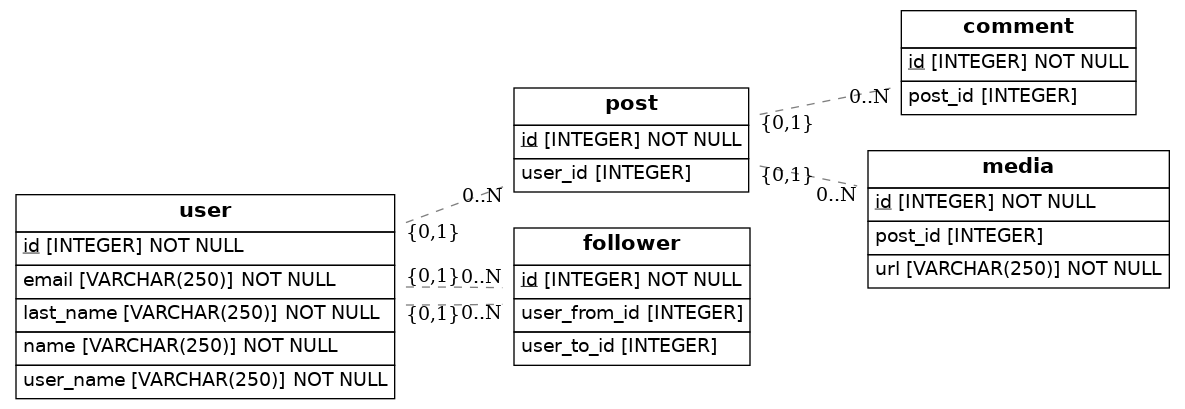
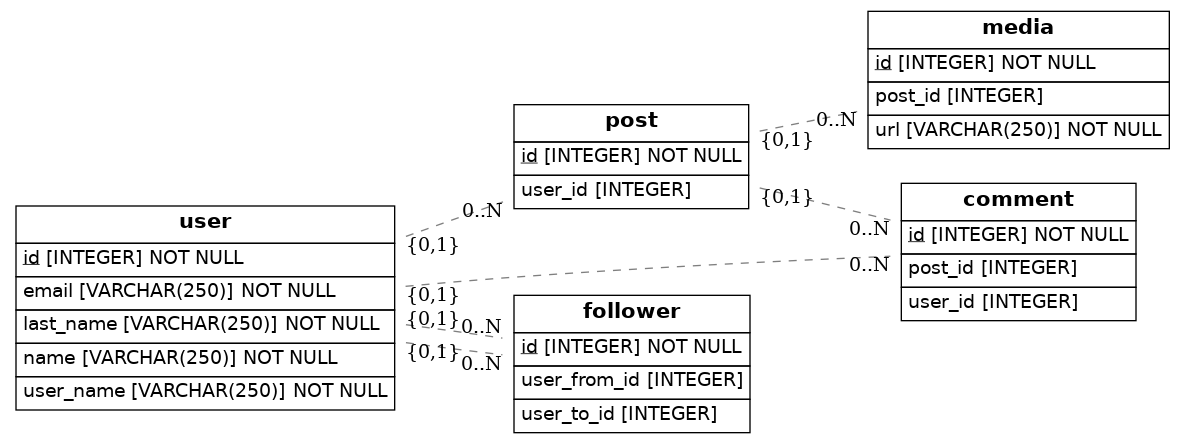
fin

diff --git a/src/models.py b/src/models.py
@@ -15,6 +15,7 @@ class User(Base):
     user_name = Column(String(250), nullable=False)
     name = Column(String(250), nullable=False)
     last_name = Column(String(250), nullable=False)
+    password = Column(String(250), nullable=True)
     email = Column(String(250), nullable=False)
 
 class Post(Base):
@@ -32,6 +33,8 @@ class Comment(Base):
     id = Column(Integer, primary_key=True)
     post_id = Column(Integer, ForeignKey('post.id'))  
     post = relationship(Post)
+    user_id = Column(Integer, ForeignKey('user.id'))  
+    user = relationship(User) 
 
 
 class Media(Base):
